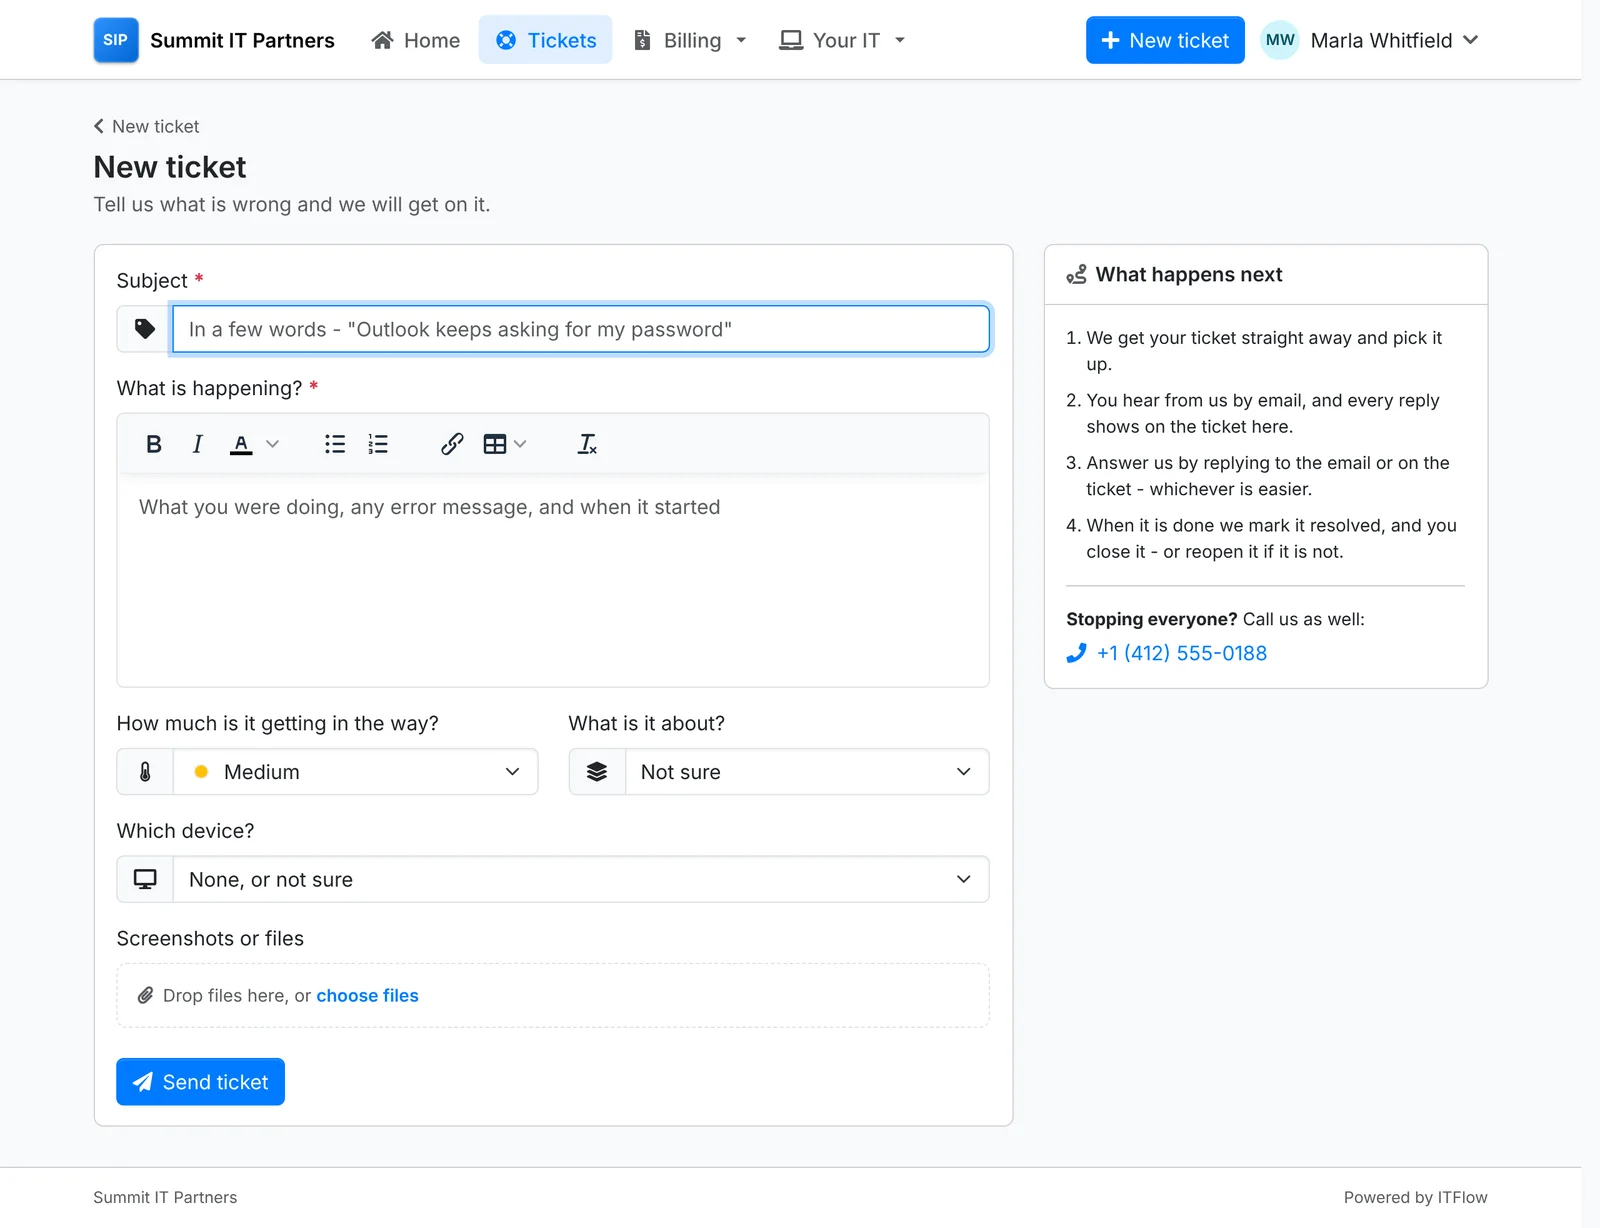
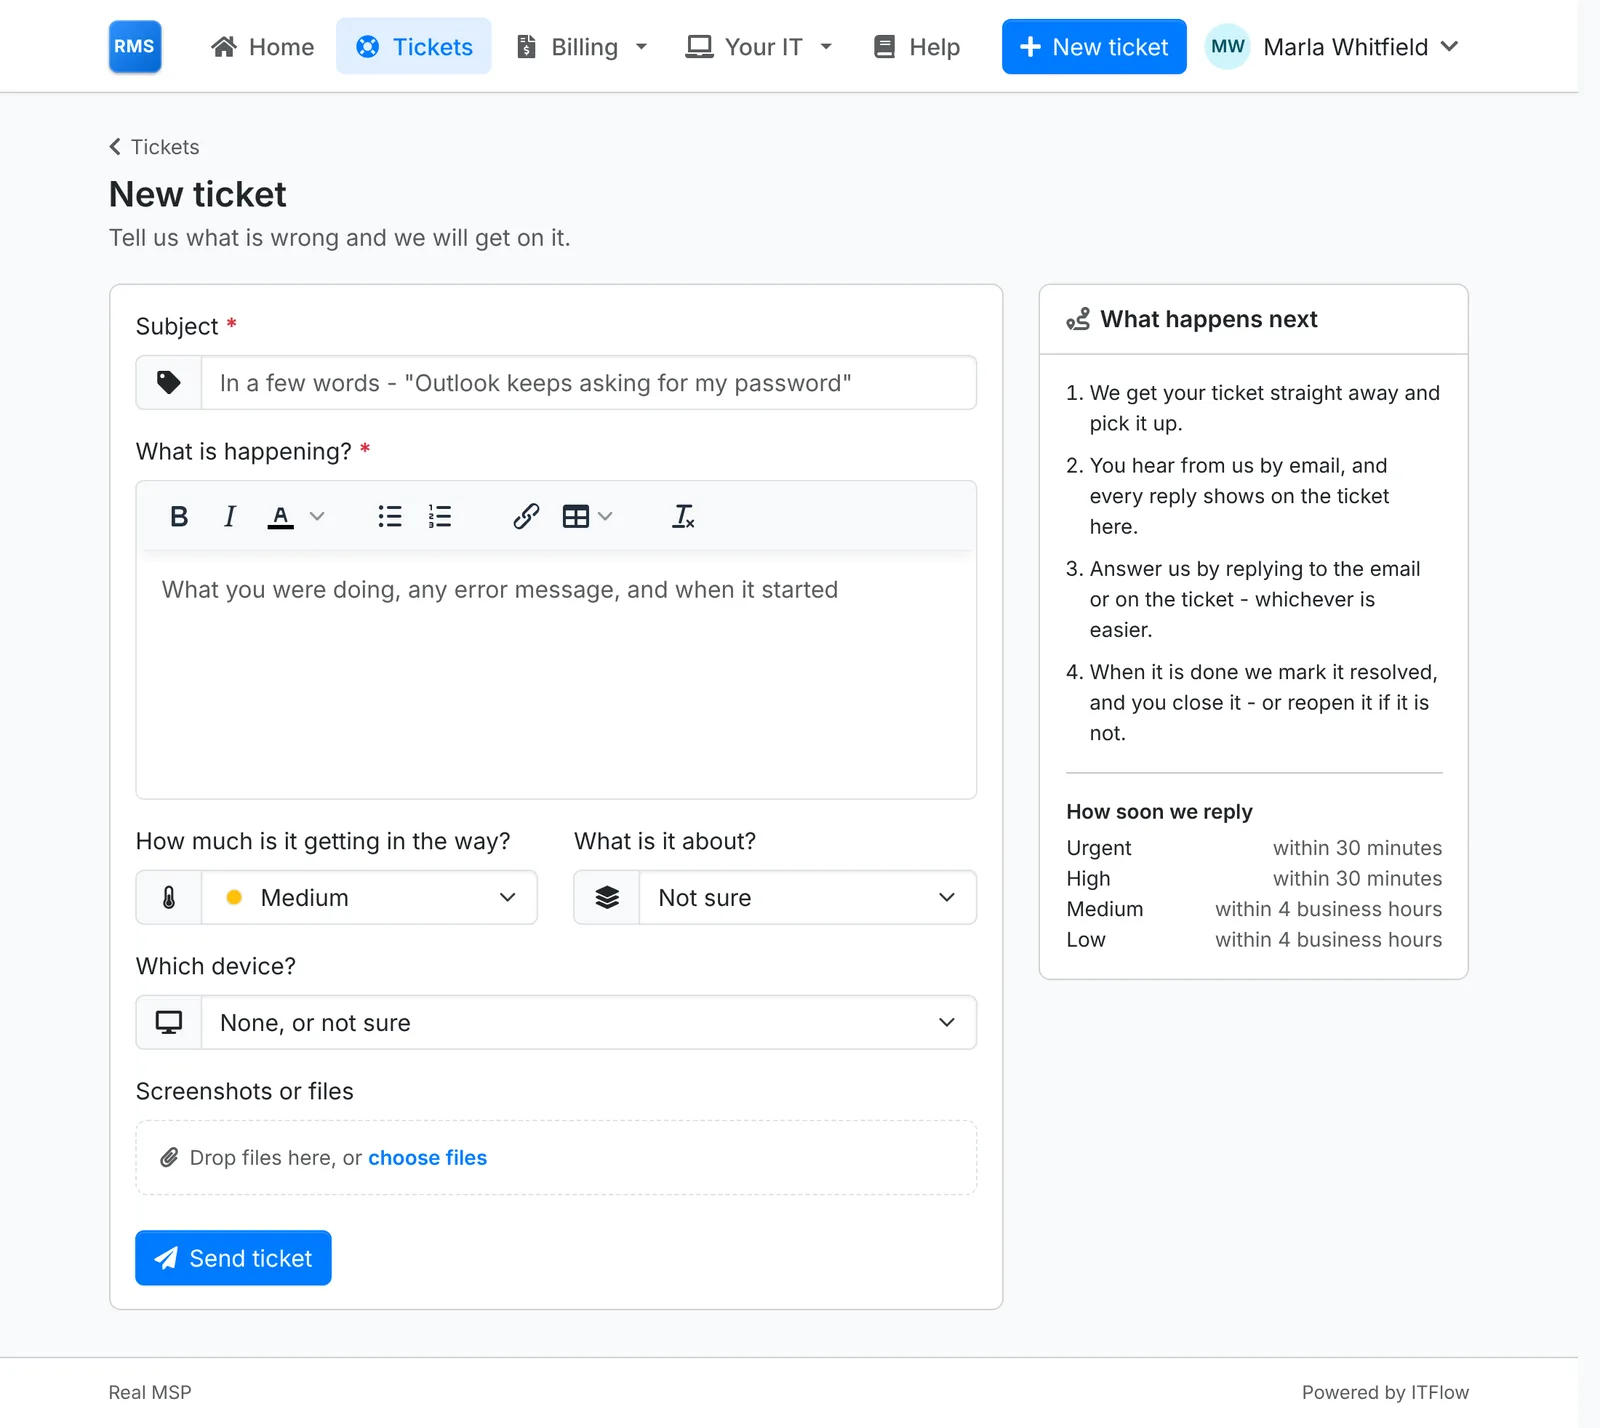
Docs: Client portal - Search across tickets, documents and Help, and when to expect a reply on a ticket and for each priority, with screenshots

diff --git a/content/portal/tickets.md b/content/portal/tickets.md
@@ -20,13 +20,13 @@ Most contacts see the tickets they raised. Primary and technical contacts see ev
 
 - a **Subject**, in a few words
 - **What is happening?** - what they were doing, any error message, and when it started
-- **How much is it getting in the way?** - which sets how urgent it is
+- **How much is it getting in the way?** - which sets how urgent it is, and says how soon you reply to each, from your [SLAs](/admin/tickets#slas)
 - **What is it about?** and **Which device?** - their own devices are listed
 - **Screenshots or files**, dropped in or chosen
 
 ![Reporting a problem](portal-ticket-problem.webp "Report a problem: what's wrong, how much it's in the way, and which device")
 
-**What happens next** alongside tells them what to expect, with your phone number for when it's stopping everyone.
+**What happens next** alongside tells them what to expect - with **How soon we reply** for each priority when your SLAs set a response time - and your phone number for when it's stopping everyone.
 
 As they type the subject, any Help articles that might answer it show under it - see [Knowledge Base](/service-desk/knowledge-base#raise).
 
@@ -46,7 +46,7 @@ The ticket is raised from the form's template, with its category, priority, task
 
 ![A ticket in the portal](portal-ticket.webp "A ticket: where it stands, the conversation, and the details")
 
-The ticket shows where it stands - **Received**, **In progress**, **Resolved**, **Closed** - and the conversation, oldest first, with their own messages on the right. Your internal notes never show. Down the side: its status, priority, category, who raised it, who's working on it, the device and how many tasks are done.
+The ticket shows where it stands - **Received**, **In progress**, **Resolved**, **Closed** - and the conversation, oldest first, with their own messages on the right. Until you first reply, it also says when to expect that reply - **We'll reply by** and the time, from its SLA, as the new-ticket email does. It goes once you've replied, while the ticket is on hold, or once the time has passed, and a ticket with no SLA promises nothing. Your internal notes never show. Down the side: its status, priority, category, who raised it, who's working on it, the device and how many tasks are done.
 
 - **Add a reply**, with files, and click **Send reply**.
 - **It's fixed** marks it resolved themselves.

diff --git a/content/portal/overview.md b/content/portal/overview.md
@@ -37,6 +37,12 @@ Announcements you post - planned maintenance, a holiday closure - show at the to
 
 The bar along the top has **Home**, **Tickets**, **Billing** (invoices, quotes, recurring invoices, payments, statement, and cards and autopay) and **Your IT** (devices, licenses, domains and certificates, documents and contacts). **Help** is there too once you've shared an article with them - see [Knowledge Base](/service-desk/knowledge-base#portal). **New ticket** is always there.
 
+### Search {#search}
+
+The **Search** box in the top bar - on a smaller screen the magnifying glass, or **Search** under their name, and on a phone the top of the menu - looks through everything they can open at once: their tickets, by subject, number and what was said on them; the documents you share with them; and your Help articles. Each shows its first eight, with **See all** for the rest on that page. When nothing is found, **Ask us** starts a ticket with what they searched for as its subject, and a search that finds no Help article goes on the Knowledge Base's [Not found](/service-desk/knowledge-base#not-found) list.
+
+![Searching the portal](portal-search.webp "One search across tickets, documents and Help")
+
 Their name opens **Your account** - their details, the emails they get from you, whether you text them, their password, two-step sign-in and phone PIN - and **Activity**, every sign-in and everything they did in the portal. They can switch to dark mode there too.
 
 ![The portal on a phone](portal-home-phone.webp "On a phone, the portal fits the screen")
